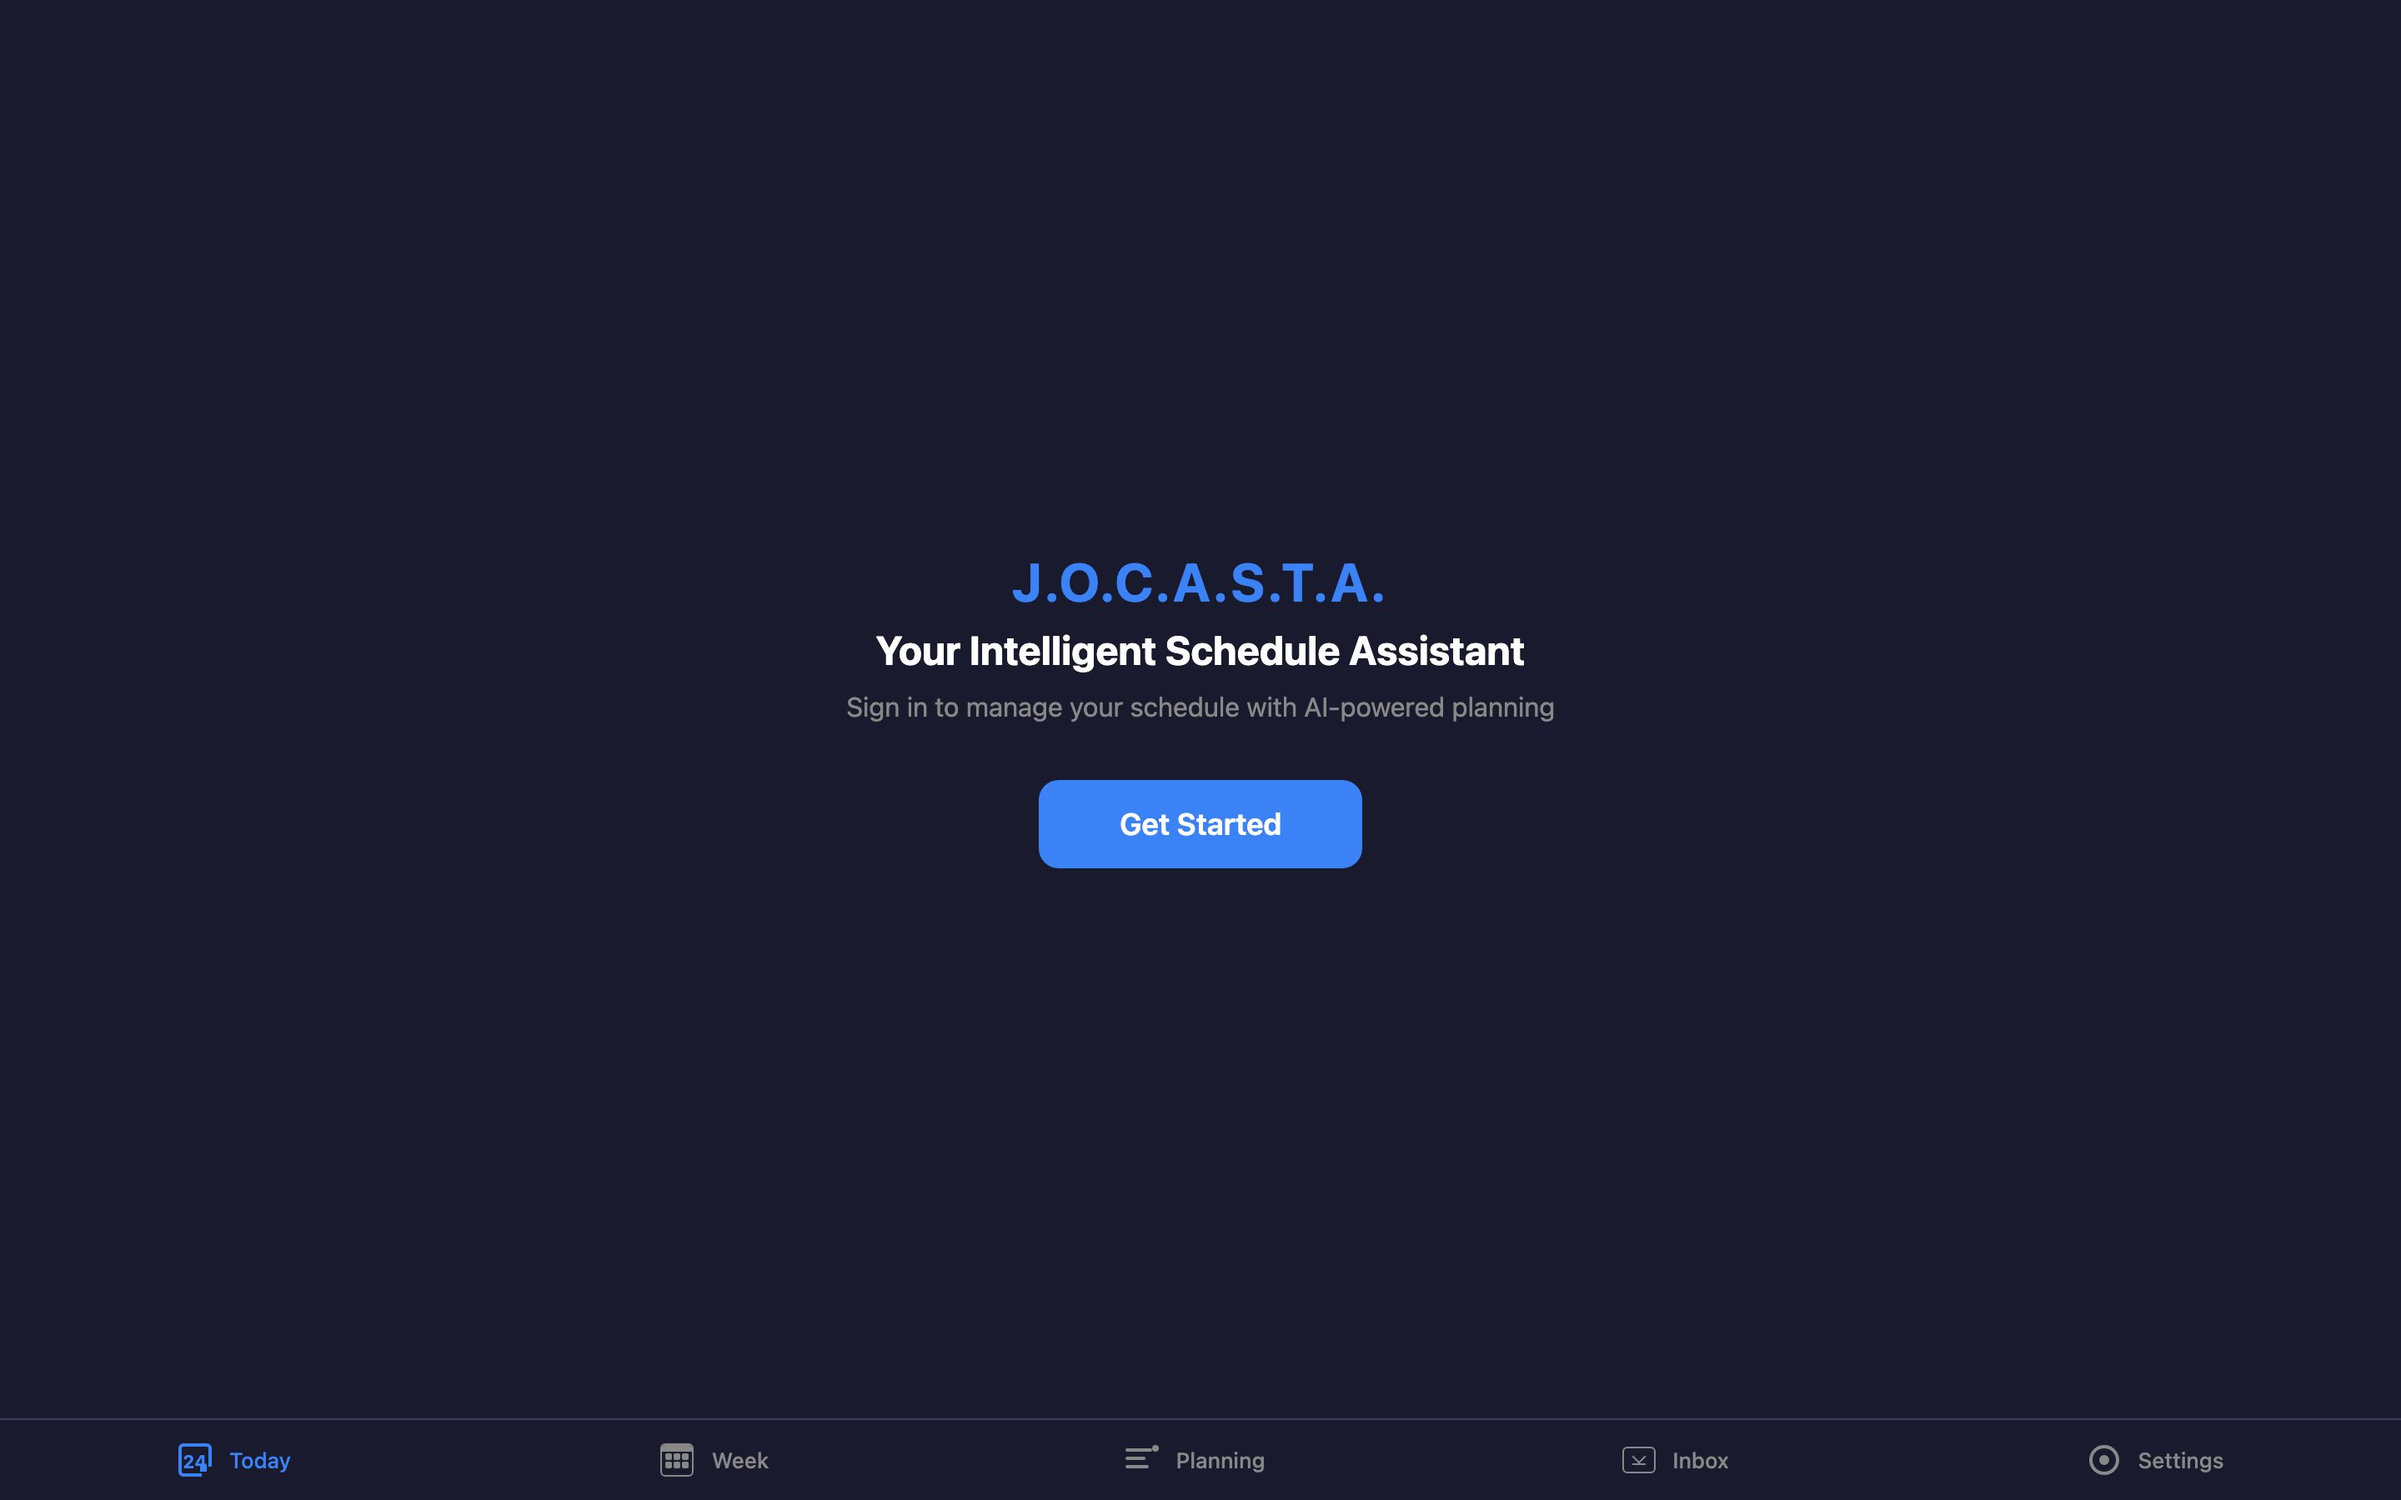
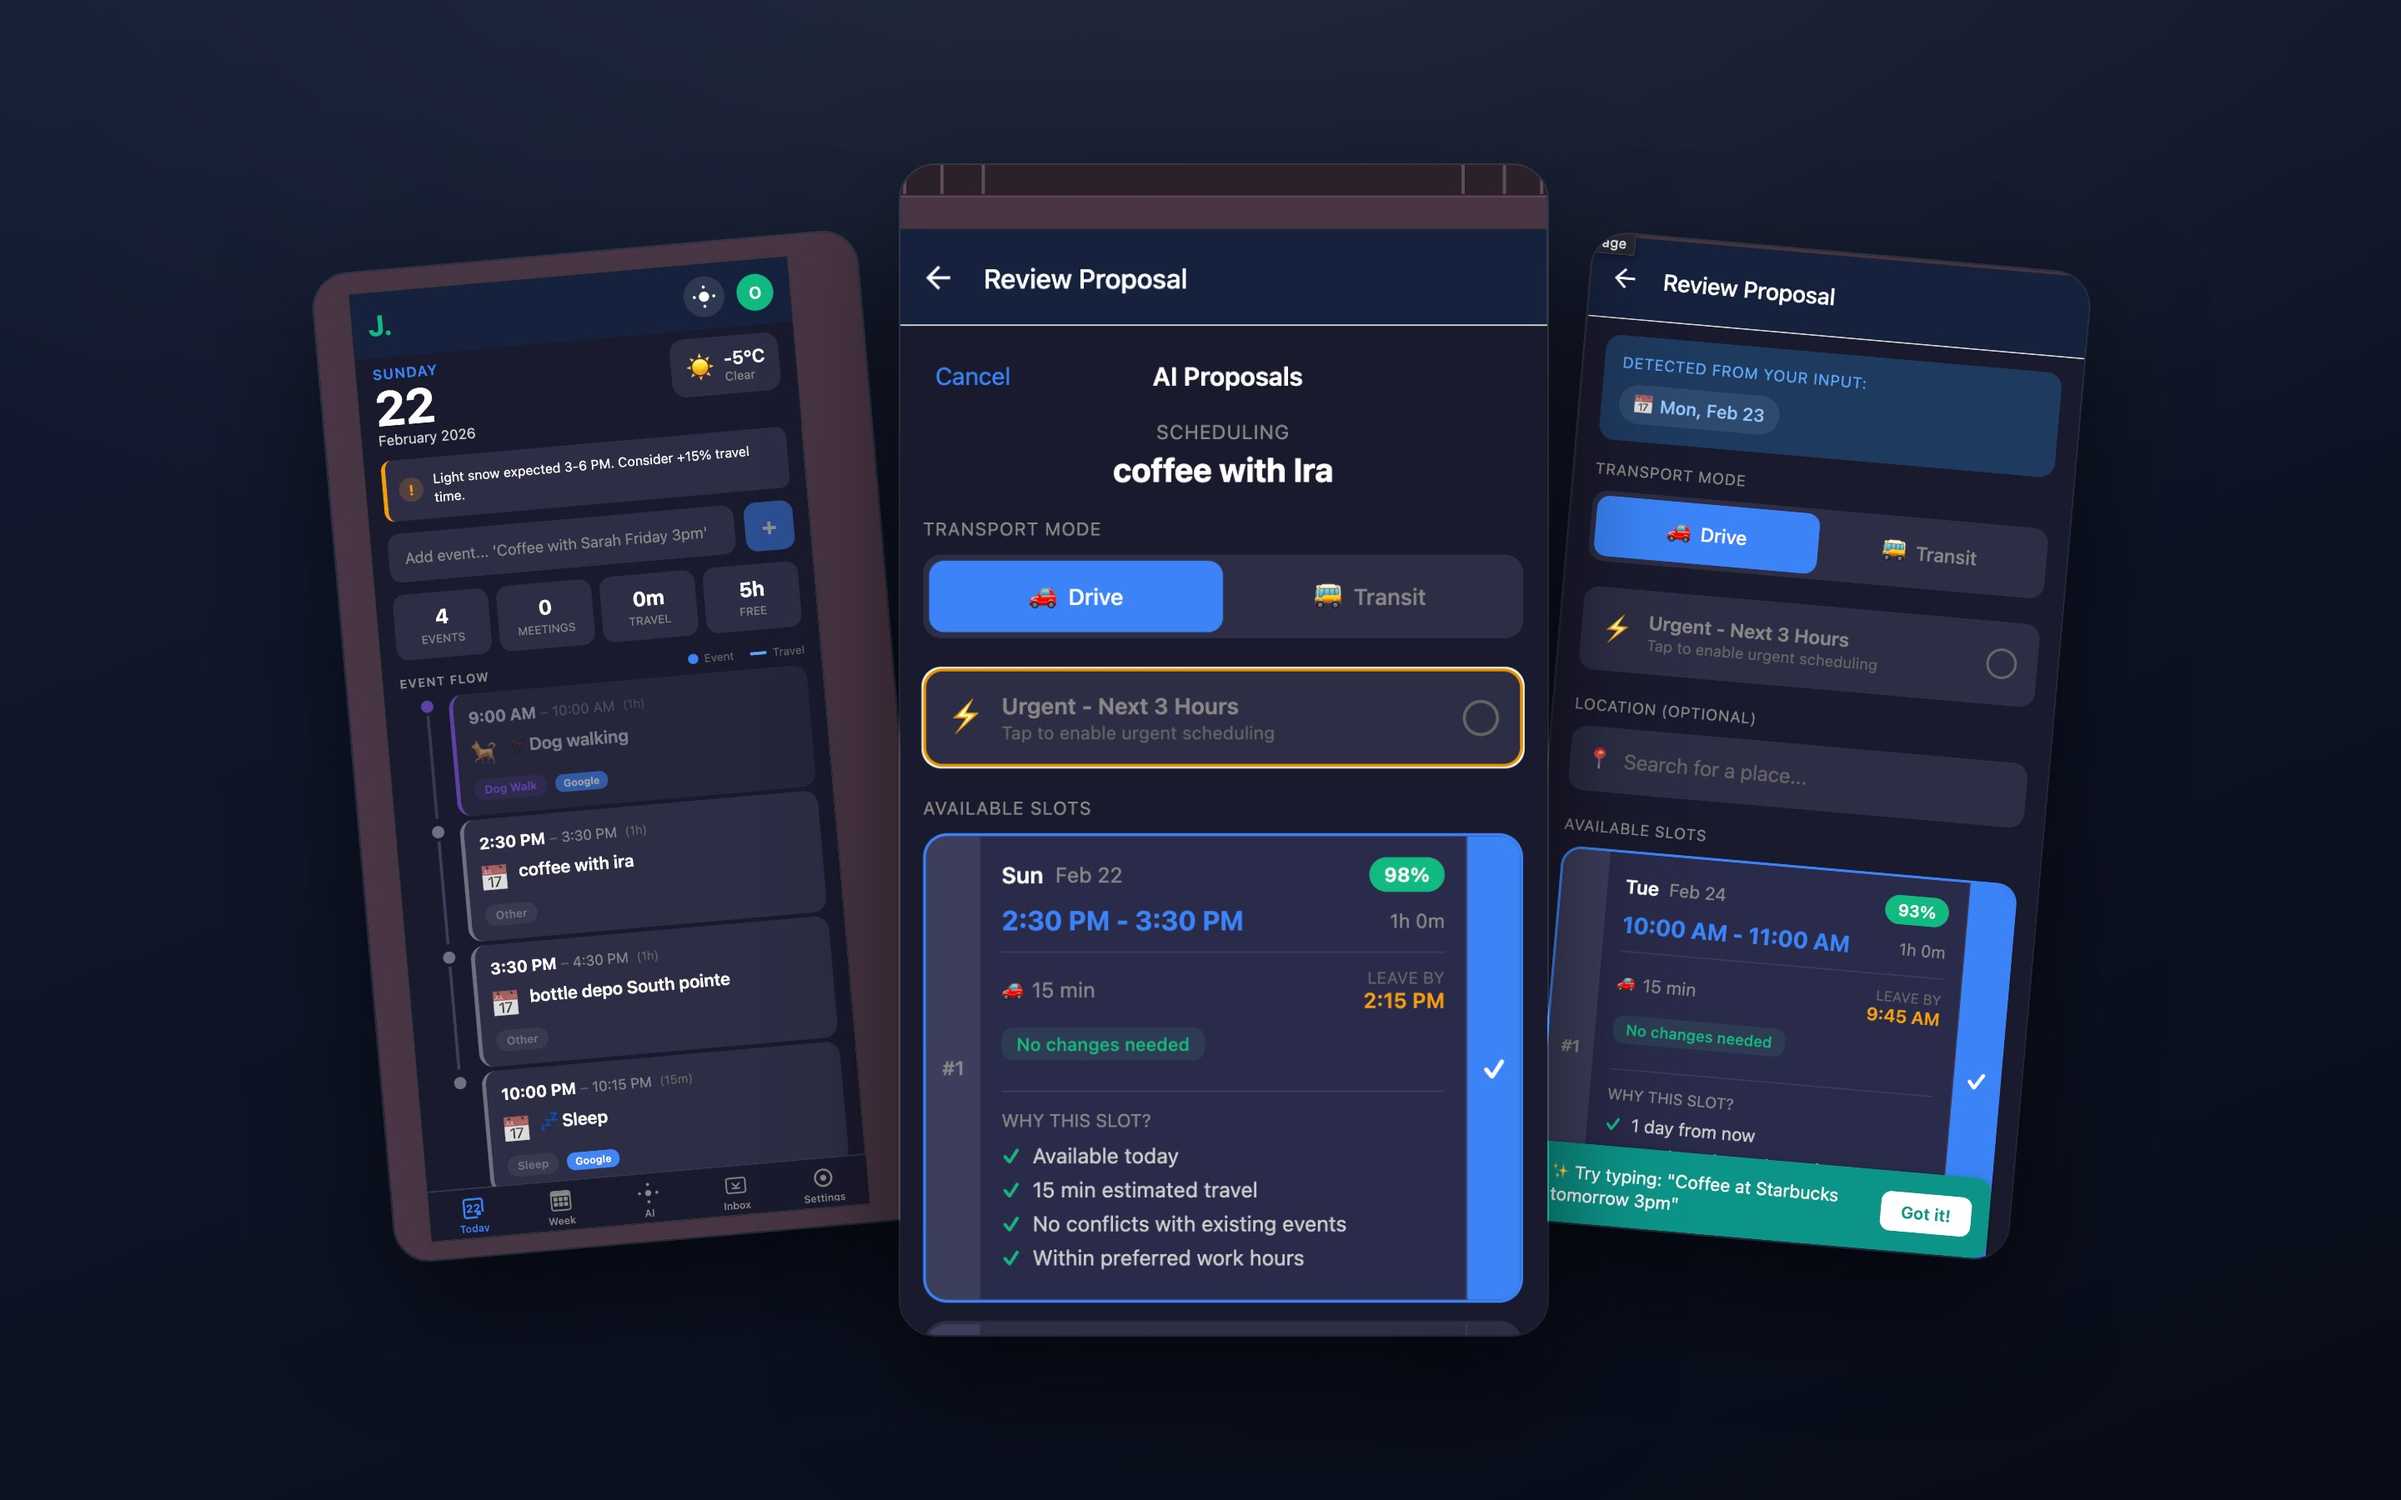
feat(images): compose tiles from phone screenshots, and give J.O.C.A.S.T.A. real ones
A portfolio tile is 16:10 and a phone screenshot is roughly 9:19. Cropping
one to fit the other shows a sliver of its status bar — which is why every
private app in the portfolio was wearing a picture of its own login screen:
the login screen is the only one that happens to be mostly empty space.

`scripts/compose-image.ts` lays the screens out on a landscape canvas
instead, three to a tile with the middle one forward. It also has a logo mode
for the same reason in miniature: an app's wordmark is wide and a 56px badge
needs something square.

Getting the desktop out of the picture took three tries, each wrong in a way
that only showed up in the result. A fixed trim off each edge fails because
the wallpaper band is not symmetric — the window sits wherever it sat. Then
measuring the content bounds in a canvas fails because Chromium gives every
`file://` document its own origin and refuses `getImageData`. Then measuring
"is any pixel here different from the corner" fails because the window's own
chrome is a thin strip running the full width, so one differing pixel kept
the whole band. Counting differing pixels per column and requiring a real
share of the height is what actually finds the window.

J.O.C.A.S.T.A. now shows the product rather than its front door: the Today
screen with the weather and its "light snow expected 3-6 PM, consider +15%
travel time" banner, and two proposal screens with the slot confidence, the
[…]

diff --git a/scripts/compose-image.ts b/scripts/compose-image.ts
@@ -1,0 +1,265 @@
+/**
+ * Build a tile from phone screenshots, or a square logo from a wordmark.
+ *
+ * Run with:
+ *   npx tsx scripts/compose-image.ts tile <key> <img…> [--bg "#0f1629,#0a0f1e"] [--trim 0.06]
+ *   npx tsx scripts/compose-image.ts logo <key> <img> [--bg "#1b2133"] [--zoom 1.6]
+ *
+ * A portfolio tile is 16:10 and a phone screenshot is roughly 9:19. Cropping
+ * one to fit the other shows a sliver of its status bar, which is why every
+ * app in the portfolio was wearing a picture of its own login screen: the
+ * login screen is the only one that happens to be mostly empty space. Laying
+ * the screens out on a landscape canvas is what a portfolio actually does,
+ * and a browser is already here to do it.
+ *
+ * The logo mode exists for the same reason in miniature: an app's wordmark is
+ * wide, and a 56px square badge needs something square. This puts the mark on
+ * its own background with room around it instead of letterboxing it to
+ * nothing.
+ *
+ * Nothing here invents artwork — it only arranges pictures the project
+ * already has.
+ */
+
+import * as path from 'path';
+import * as fs from 'fs';
+import { chromium } from 'playwright';
+
+const [mode, key, ...rest] = process.argv.slice(2);
+
+const flag = (name: string): string | undefined => {
+  const at = rest.indexOf(`--${name}`);
+  return at === -1 ? undefined : rest[at + 1];
+};
+
+const images = rest.filter(a => !a.startsWith('--') && !/^[\d.]+$/.test(a) && !a.startsWith('#'));
+
+const OUT_DIR = path.join(__dirname, '../public/content/img/projects');
+
+/**
+ * Render a page of local images and photograph it.
+ *
+ * The markup is written to a file beside the pictures and opened with
+ * `goto`, rather than handed to `setContent`. A page created by `setContent`
+ * has an opaque origin, and a `file://` image on it never loads — the first
+ * attempt produced a handsome gradient with three broken-image icons
+ * stretched into slivers on it.
+ */
+async function shoot(html: string, out: string, width: number, height: number, jpeg: boolean) {
+  const scratch = path.join(OUT_DIR, `.compose-${Date.now()}.html`);
+  fs.writeFileSync(scratch, html);
+
+  const browser = await chromium.launch();
+  try {
+    const page = await browser.newPage({
+      viewport: { width, height },
+      deviceScaleFactor: 2,
+    });
+    await page.goto(`file://${scratch}`);
+    await page.waitForLoadState('networkidle');
+    // Decoding finishes after load on large PNGs; without this the capture
+    // can catch a half-painted image.
+    await page.waitForTimeout(400);
+    await page.screenshot(
+      jpeg ? { path: out, type: 'jpeg', quality: 86 } : { path: out, type: 'png' },
+    );
+  } finally {
+    await browser.close();
+    fs.rmSync(scratch, { force: true });
+  }
+}
+
+/** Images are referenced by name, relative to the page written beside them. */
+function ref(p: string): string {
+  return encodeURI(path.basename(p));
+}
+
+/**
+ * Where the app window sits inside a desktop screen capture.
+ *
+ * Opened in a real browser because a browser already decodes PNG and already
+ * has a canvas; writing a PNG decoder here to answer one question would be a
+ * second implementation of something Chromium does correctly.
+ *
+ * The corner pixel is taken as the wallpaper. Anything differing from it by
+ * more than a small tolerance is content, and the returned box is the extent
+ * of that. A capture with no border around it simply returns its whole self.
+ */
+async function measureContent(
+  files: string[],
+): Promise<{ x: number; y: number; w: number; h: number; naturalWidth: number }[]> {
+  const scratch = path.join(OUT_DIR, `.measure-${Date.now()}.html`);
+  fs.writeFileSync(scratch, '<!doctype html><html><body></body></html>');
+
+  // Chromium gives every `file://` document its own opaque origin, so a canvas
+  // that has drawn a local image refuses `getImageData` as cross-origin. This
+  // flag is what lets a page read a file sitting beside it. It is set only on
+  // this throwaway browser, which loads nothing but these pictures.
+  const browser = await chromium.launch({ args: ['--allow-file-access-from-files'] });
+  try {
+    const page = await browser.newPage();
+    await page.goto(`file://${scratch}`);
+
+    const out: { x: number; y: number; w: number; h: number; naturalWidth: number }[] = [];
+    for (const file of files) {
+      out.push(
+        (await page.evaluate(`(async () => {
+          const img = new Image();
+          img.src = ${JSON.stringify(ref(file))};
+          await img.decode();
+
+          const canvas = document.createElement('canvas');
+          canvas.width = img.naturalWidth;
+          canvas.height = img.naturalHeight;
+          const ctx = canvas.getContext('2d');
+          ctx.drawImage(img, 0, 0);
+          const { data, width, height } = ctx.getImageData(0, 0, canvas.width, canvas.height);
+
+          const at = (x, y) => (y * width + x) * 4;
+          const bg = [data[0], data[1], data[2]];
+          const differs = (i) =>
+            Math.abs(data[i] - bg[0]) + Math.abs(data[i + 1] - bg[1]) + Math.abs(data[i + 2] - bg[2]) > 24;
+
+          // Counted per column and per row rather than "is any pixel here
+          // different". A window's own chrome — the thin strip of tab marks
+          // along the top — runs the full width of the capture, so a single
+          // differing pixel was enough to declare the far edge content and
+          // keep the wallpaper beside it. A column only counts when a real
+          // share of its height is content, which a 25-pixel strip never is.
+          const step = 4;
+          const cols = new Array(width).fill(0);
+          const rows = new Array(height).fill(0);
+
+          for (let y = 0; y < height; y += step) {
+            for (let x = 0; x < width; x += step) {
+              if (!differs(at(x, y))) continue;
+              cols[x]++;
+              rows[y]++;
+            }
+          }
+
+          const sampledRows = Math.ceil(height / step);
+          const sampledCols = Math.ceil(width / step);
+          const colFloor = sampledRows * 0.06;
+          const rowFloor = sampledCols * 0.06;
+
+          const firstAbove = (counts, floor) => counts.findIndex(c => c > floor);
+          const lastAbove = (counts, floor) => {
+            for (let i = counts.length - 1; i >= 0; i--) if (counts[i] > floor) return i;
+            return -1;
+          };
+
+          const minX = firstAbove(cols, colFloor);
+          const maxX = lastAbove(cols, colFloor);
+          const minY = firstAbove(rows, rowFloor);
+          const maxY = lastAbove(rows, rowFloor);
+
+          if (maxX < 0) return { x: 0, y: 0, w: width, h: height, naturalWidth: width };
+          return {
+            x: minX, y: minY,
+            w: Math.max(1, maxX - minX + 1),
+            h: Math.max(1, maxY - minY + 1),
+            naturalWidth: width,
+          };
+        })()`)) as any,
+      );
+    }
+    return out;
+  } finally {
+    await browser.close();
+    fs.rmSync(scratch, { force: true });
+  }
+}
+
+async function composeTile() {
+  const [from, to] = (flag('bg') ?? '#111a30,#070b16').split(',');
+  const shots = images.slice(0, 3);
+  if (!shots.length) throw new Error('No images given');
+
+  // A screen capture taken on a desktop carries the desktop with it — a band
+  // of wallpaper around the window, and rarely a symmetric one: the window
+  // sits where it sat. Cropping a fixed fraction off each edge therefore
+  // either leaves wallpaper on one side or eats the app on the other, which
+  // is what the first two attempts did.
+  //
+  // So the bounds are measured instead of assumed. The browser has a decoder
+  // and a canvas; it reads the corner pixel, takes that to be the wallpaper,
+  // and returns the box of everything that differs from it.
+  const bounds = await measureContent(shots);
+
+  // The middle screen is the one a reader looks at, so it is the tallest and
+  // sits in front; the other two are set back and turned slightly, which is
+  // what makes three flat rectangles read as a group rather than a filmstrip.
+  const cards = shots
+    .map((img, i) => {
+      const middle = shots.length === 1 || i === 1;
+      const height = middle ? 78 : 66;
+      const rotate = shots.length === 1 ? 0 : i === 0 ? -5 : i === 2 ? 5 : 0;
+      const shift = shots.length === 1 ? 0 : i === 0 ? 26 : i === 2 ? -26 : 0;
+      const b = bounds[i];
+
+      return `<div style="
+        height:${height}%; aspect-ratio:${b.w} / ${b.h}; overflow:hidden; position:relative;
+        transform: rotate(${rotate}deg) translateX(${shift}px);
+        z-index:${middle ? 3 : 1};
+        border-radius:22px;
+        border:1px solid rgba(255,255,255,.1);
+        box-shadow:0 30px 70px rgba(0,0,0,.55);
+      "><img src="${ref(img)}" style="
+        position:absolute;
+        width:${((b.naturalWidth / b.w) * 100).toFixed(3)}%;
+        left:${((-b.x / b.w) * 100).toFixed(3)}%;
+        top:${((-b.y / b.h) * 100).toFixed(3)}%;
+      "></div>`;
+    })
+    .join('');
+
+  const html = `<!doctype html><html><body style="margin:0">
+    <div style="
+      width:1440px; height:900px; display:flex; align-items:center;
+      justify-content:center; gap:26px; overflow:hidden;
+      background:
+        radial-gradient(120% 90% at 50% -10%, rgba(255,255,255,.07), transparent 60%),
+        linear-gradient(160deg, ${from}, ${to});
+    ">${cards}</div>
+  </body></html>`;
+
+  const out = path.join(OUT_DIR, `${key}.jpg`);
+  await shoot(html, out, 1440, 900, true);
+
+  console.log(`плитка → /content/img/projects/${key}.jpg  (${Math.round(fs.statSync(out).size / 1024)} КБ)`);
+}
+
+async function composeLogo() {
+  const bg = flag('bg') ?? '#1b2133';
+  const zoom = Number.parseFloat(flag('zoom') ?? '1.5');
+  const img = images[0];
+  if (!img) throw new Error('No image given');
+
+  const html = `<!doctype html><html><body style="margin:0">
+    <div style="
+      width:512px; height:512px; display:flex; align-items:center;
+      justify-content:center; overflow:hidden; background:${bg};
+    ">
+      <img src="${ref(img)}" style="
+        width:${Math.round(100 * zoom)}%; object-fit:contain;
+      ">
+    </div>
+  </body></html>`;
+
+  const out = path.join(OUT_DIR, `${key}-logo.png`);
+  await shoot(html, out, 512, 512, false);
+
+  console.log(`логотип → /content/img/projects/${key}-logo.png  (${Math.round(fs.statSync(out).size / 1024)} КБ)`);
+}
+
+(async () => {
+  fs.mkdirSync(OUT_DIR, { recursive: true });
+  if (mode === 'tile') await composeTile();
+  else if (mode === 'logo') await composeLogo();
+  else throw new Error('Usage: compose-image.ts tile|logo <key> <img…>');
+  process.exit(0);
+})().catch(e => {
+  console.error(e.message);
+  process.exit(1);
+});
